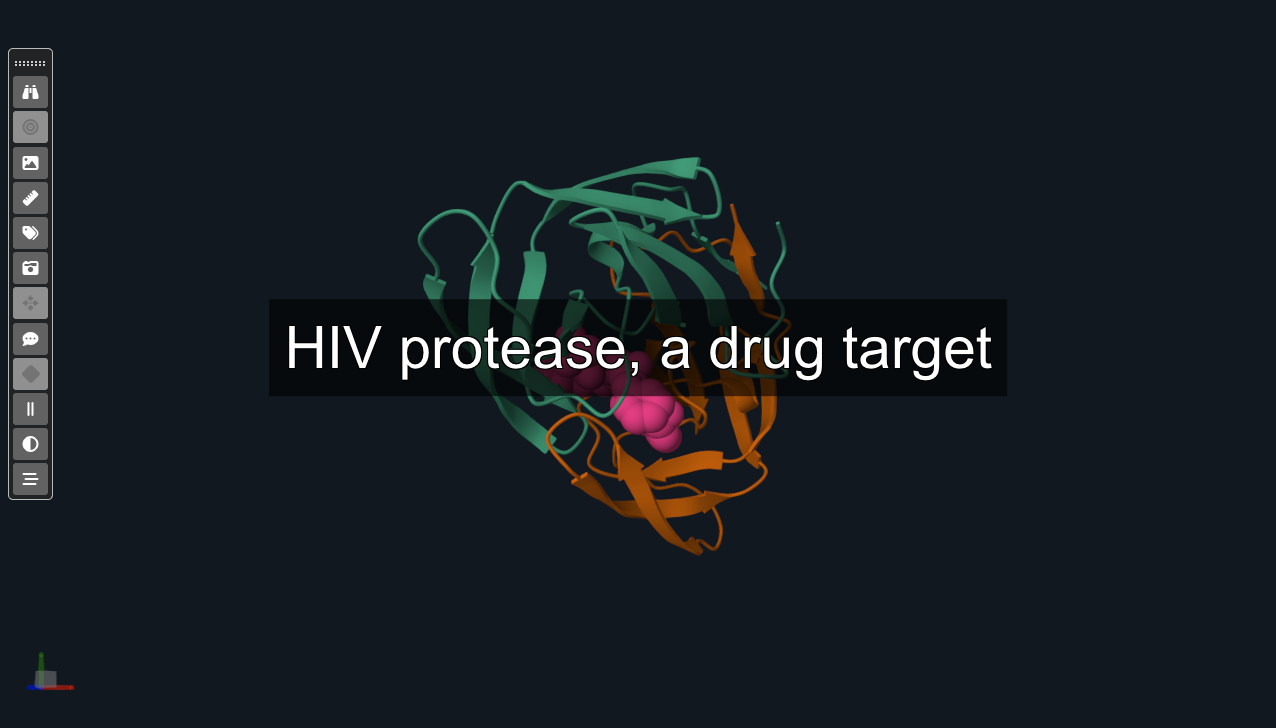
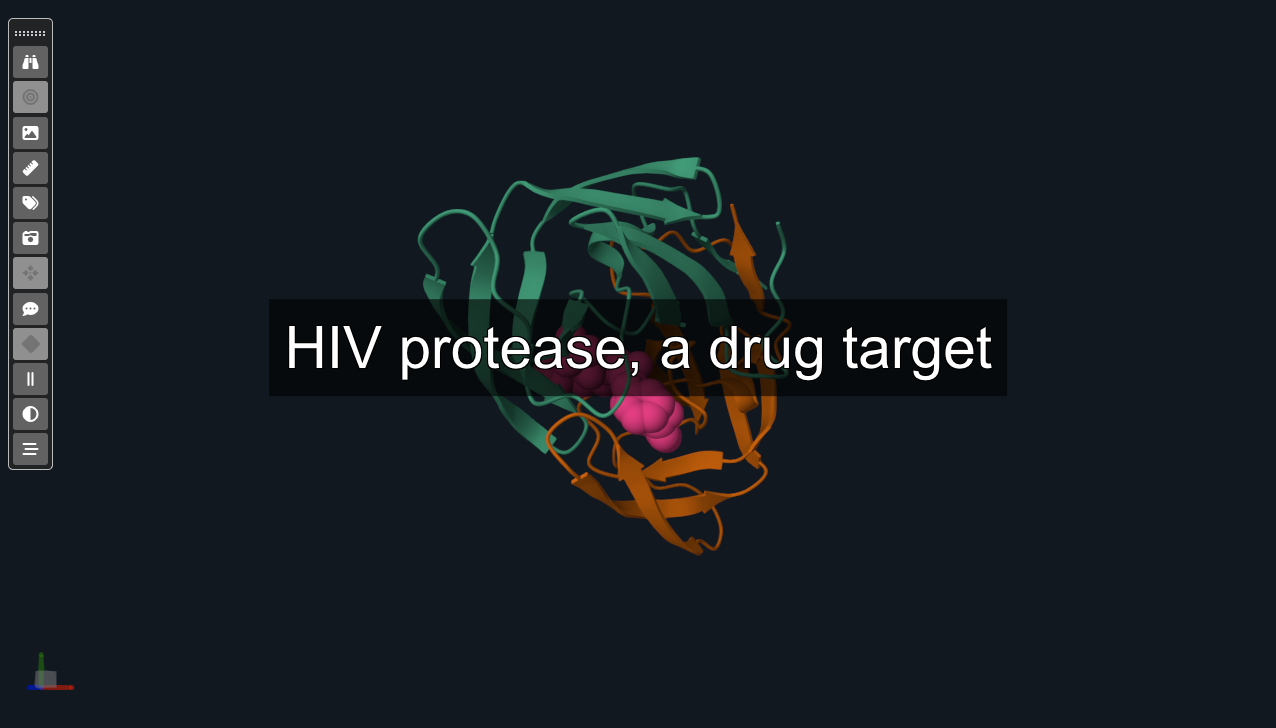
Docs for 0.11.4: the assistant settings tab named Other apps (MCP) with what MCP is; Before your first request; the representation card label Representation; all pictures retaken (the tools strip near the top).

Changed region(s): [[0.0, 0.0604, 0.0611, 0.6951]]

diff --git a/docs/source/ai-assistants.md b/docs/source/ai-assistants.md
@@ -65,6 +65,10 @@ Claude, a movie costs from cents (Haiku) to a dollar or two (Opus), roughly. The
   Without a model or a key, the panel offers **Set up the assistant**.
 * **Ask**: type your request and press Enter (Shift+Enter for a new line), or click one of the examples. On the start
   screen, the request creates the project; in the editor, it changes the movie open.
+* **Before your first request** (once each time biomovies opens), a window says what goes to the provider (what you
+  write, a summary of the structure, the movie's outline, its pictures if *Pictures* is on) and what does not (the
+  structure and trajectory files, the project file). **Continue** sends the request, **Not now** keeps it in the box;
+  tick **Do not show this again** to skip it from then on.
 * **While it works**, the editor is locked and the panel shows each step as it happens. **Stop**, or Esc, stops it.
 * **When it is done**, it says what it made. Under its answer:
   * **N steps**: click to see what it ran, and what failed;
@@ -89,9 +93,10 @@ biomovies works with four assistants of other apps, which you use with your own 
 
 <img src="_static/pictures/connection-window.png" alt="The connection window" style="max-width:500px; margin-bottom:0;" />
 
-<span style="font-size:12px;">The connection window</span>
+<span style="font-size:12px;">Assistant > Connection…, Other apps (MCP)</span>
 
-**Assistant > Connection…** opens the connection window, on the start screen or in the editor.
+**Assistant > Connection…**, tab **Other apps (MCP)**, on the start screen or in the editor. (MCP, the Model Context
+Protocol, is the standard these apps use to reach biomovies' tools.)
 
 1. Turn the **Connection** on. While it is on, the assistants can work on the open project (or start one from the
    start screen) when you ask them. biomovies remembers it, also after a restart, until you turn it off.
@@ -154,7 +159,7 @@ sits in each one (cut at an edge, too small, under a text).
 
 * **Claude Code**, **Claude Desktop** and **Copilot** get the pictures.
 * **opencode** gets the measurements only, as many of its models read text only. With a model that reads images, turn
-  **Pictures** on under opencode in the connection window.
+  **Pictures** on under opencode in **Assistant > Connection…**, tab **Other apps (MCP)**.
 
 ## Scripts
 

diff --git a/docs/source/representations.md b/docs/source/representations.md
@@ -34,7 +34,7 @@ The buttons at the top of each card:
 | **Remove** | Removes it from the clip. |
 | **Collapse** / **Expand** | Folds or unfolds the card. |
 
-Below them: **Selection** (which atoms), **Opacity**, **Mol. Representation** (the style), **Color**, **Radius** (for
+Below them: **Selection** (which atoms), **Opacity**, **Representation** (the style), **Color**, **Radius** (for
 some styles) and **Show interactions**.
 
 ## Selection
@@ -81,7 +81,7 @@ example, `902:B` with a distance of 5 Å gives the pocket around a ligand. **Dis
 From 0 (invisible) to 100 (solid). Fading the context lets the subject of a clip stand out: for example, the protein at
 20 to 40 while the ligand stays solid.
 
-## Mol. Representation
+## Representation
 
 <div style="display:grid; grid-template-columns:repeat(4, minmax(0, 1fr)); gap:8px; margin-bottom:24px;">
 <figure style="margin:0;"><img src="_static/pictures/style-cartoon.png" alt="Cartoon" style="margin-bottom:0;" /><figcaption style="font-size:12px; text-align:center;">Cartoon</figcaption></figure>

diff --git a/docs/source/get-started.md b/docs/source/get-started.md
@@ -63,7 +63,7 @@ inhibitor. About ten minutes.
 clip's last keyframe to the right, to about 5 seconds.
 
 **3. Choose what it shows.** With the timeline cursor on the clip, the right panel shows its representation. Set
-**Selection** to *Protein*, **Mol. Representation** to *Cartoon* and **Color** to *Chain id*. Then click **+** at the
+**Selection** to *Protein*, **Representation** to *Cartoon* and **Color** to *Chain id*. Then click **+** at the
 top of the panel to add a second representation: *Ligand*, in *Ball and stick*, in a colour that stands out.
 
 **4. Set the camera.** Click the clip's **first keyframe** and turn and zoom the structure on the stage: this is the
